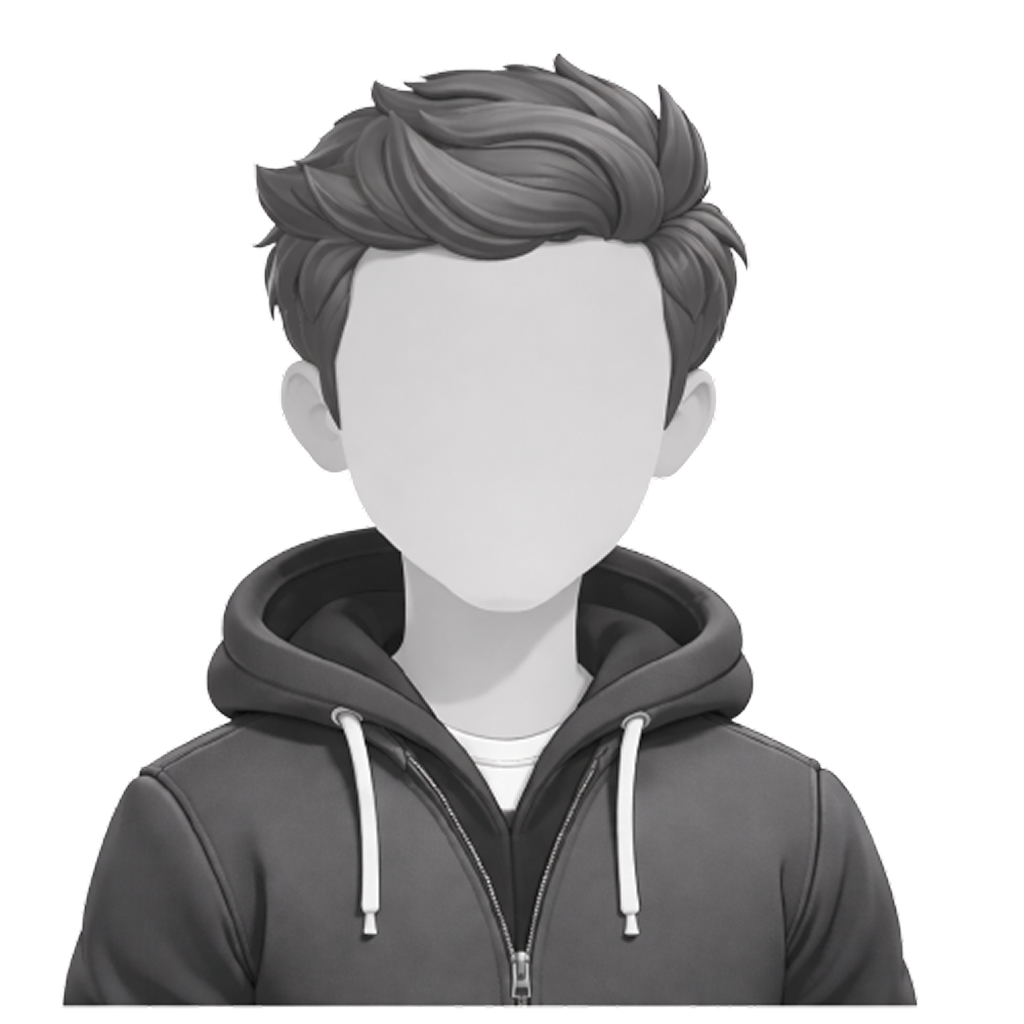
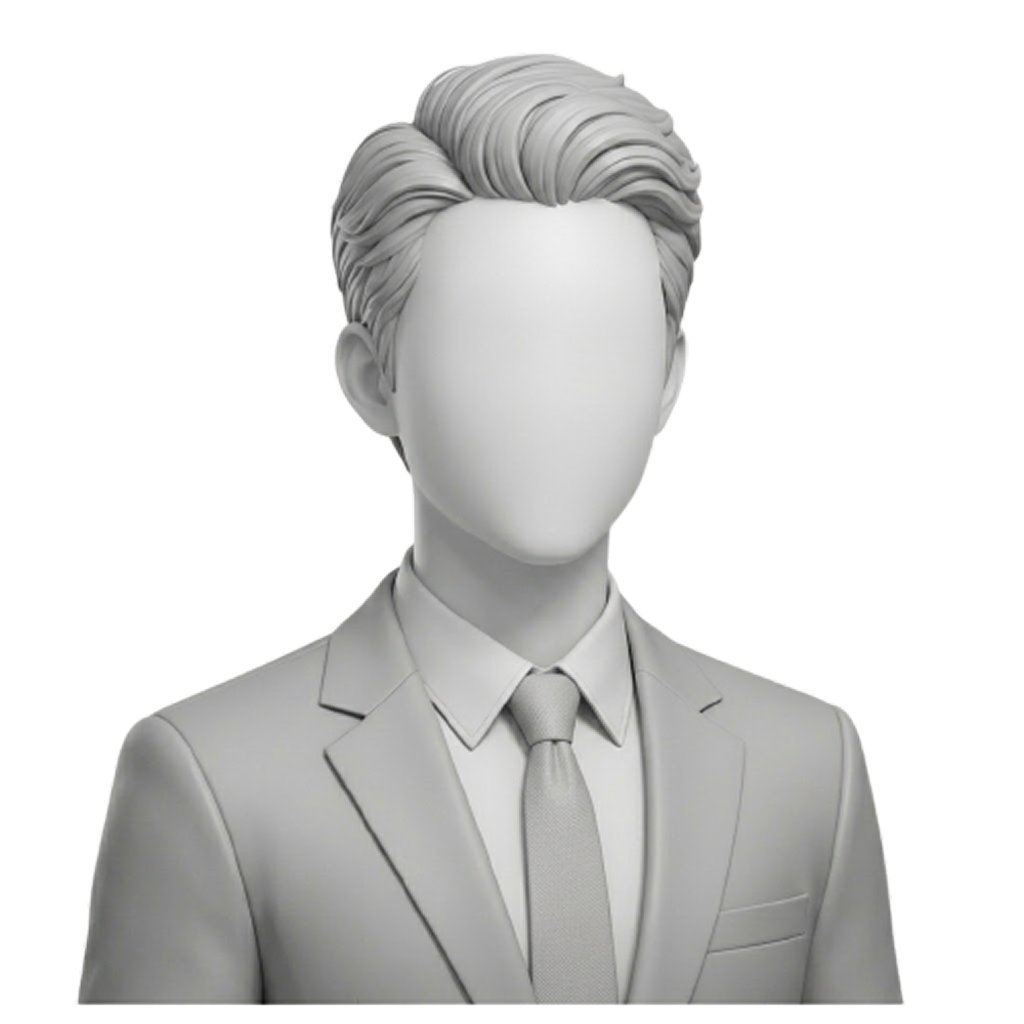
feat(constants): add default images and improve image URL handling
- Add DEFAULT_IMAGES object with gender-based and admin default avatars
- Add getDefaultImage helper function for consistent fallback logic
- Enhance getImageUrl to return default images when no image path provided
- Add getValidImageUrl async function with network error handling
- Update THEME primary color from #FF4B4B to #E51A1A
- Translate CONTRIBUTION_STATUS_UI labels to French
- Update SITUATIONS labels to French (Étudiant/Travailleur)
- Improve UI_CLASSES with consistent brand color #E51A1A
- Add support for gender parameter in image URL generation

diff --git a/client/src/lib/constant/constant.ts b/client/src/lib/constant/constant.ts
@@ -17,15 +17,13 @@ export const GITHUB_URLS = {
     ASSETS: `${BASE_RAW_URL}/assets/images`,
 } as const;
 
-// Images par défaut locales (dans le dossier public)
 export const DEFAULT_IMAGES = {
-    [Gender.MALE]: '/default-avatar-man.png',      // Chemin depuis public
-    [Gender.FEMALE]: '/default-avatar-woman.png',  // Chemin depuis public
-    ADMIN: '/default-avatar-admin.png',            // Chemin depuis public
-    DEFAULT: '/default-avatar.png',                // Chemin depuis public
+    [Gender.MALE]: '/default-avatar-man.png',
+    [Gender.FEMALE]: '/default-avatar-woman.png',
+    ADMIN: '/default-avatar-admin.png',
+    DEFAULT: '/default-avatar.png',
 } as const;
 
-// Fonction pour obtenir l'image par défaut selon le genre ou le type
 export const getDefaultImage = (
     gender?: Gender,
     type: 'admin' | 'member' = 'member'
@@ -47,12 +45,10 @@ export const getImageUrl = (
     category: 'admin' | 'member' | 'assets' = 'member',
     gender?: Gender,
 ): string => {
-    // Si pas d'image, retourner l'image par défaut selon le genre
     if (!imagePath) {
         return getDefaultImage(gender, category === 'admin' ? 'admin' : 'member');
     }
 
-    // Si c'est déjà une URL complète (http, https, data, ou fichier local)
     if (imagePath.startsWith('http://') ||
         imagePath.startsWith('https://') ||
         imagePath.startsWith('data:') ||
@@ -60,16 +56,13 @@ export const getImageUrl = (
         return imagePath;
     }
 
-    // Nettoyer le chemin
     let cleanPath = imagePath.trim().replace(/\s+/g, '_');
 
-    // Ajouter l'extension si nécessaire
     const hasExtension = IMAGE_EXTENSIONS.some((ext) => cleanPath.toLowerCase().endsWith(ext));
     if (!hasExtension) {
         cleanPath += '.jpg';
     }
 
-    // Construire l'URL GitHub
     const base =
         category === 'admin'
             ? GITHUB_URLS.ADMIN
@@ -81,7 +74,6 @@ export const getImageUrl = (
     return fullUrl;
 };
 
-// Fonction pour vérifier si une image est valide (avec fallback)
 export const getValidImageUrl = async (
     imagePath: string | null | undefined,
     category: 'admin' | 'member' | 'assets' = 'member',
@@ -89,13 +81,11 @@ export const getValidImageUrl = async (
 ): Promise<string> => {
     const url = getImageUrl(imagePath, category, gender);
 
-    // Si c'est une image par défaut locale, la retourner directement
     if (url.startsWith('/')) {
         return url;
     }
 
     try {
-        // Vérifier si l'image existe
         const response = await fetch(url, { method: 'HEAD' });
         if (response.ok) {
             return url;
@@ -104,7 +94,6 @@ export const getValidImageUrl = async (
         console.warn(`Image not found: ${url}`, error);
     }
 
-    // Fallback vers l'image par défaut
     return getDefaultImage(gender, category === 'admin' ? 'admin' : 'member');
 };
 
